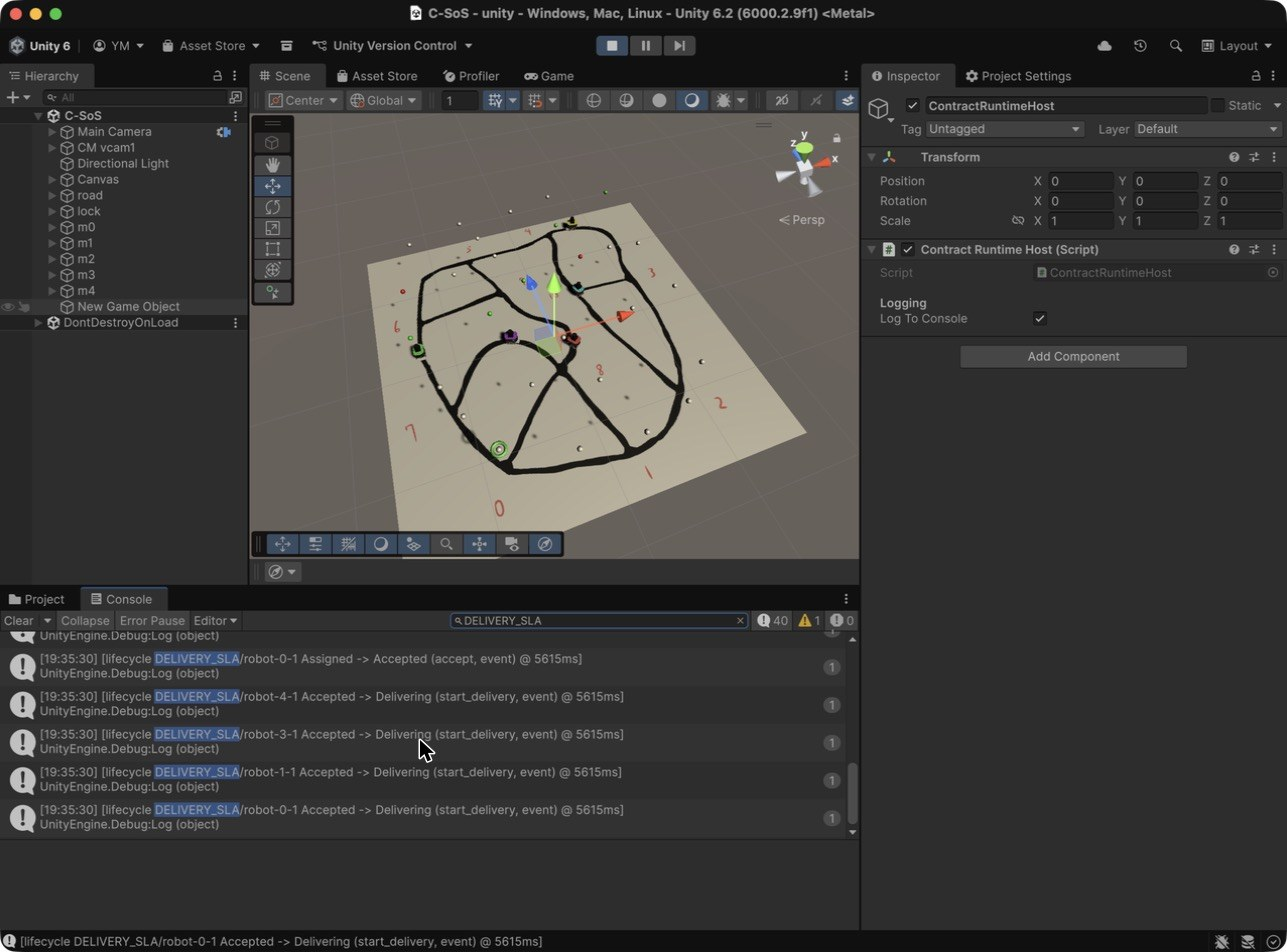
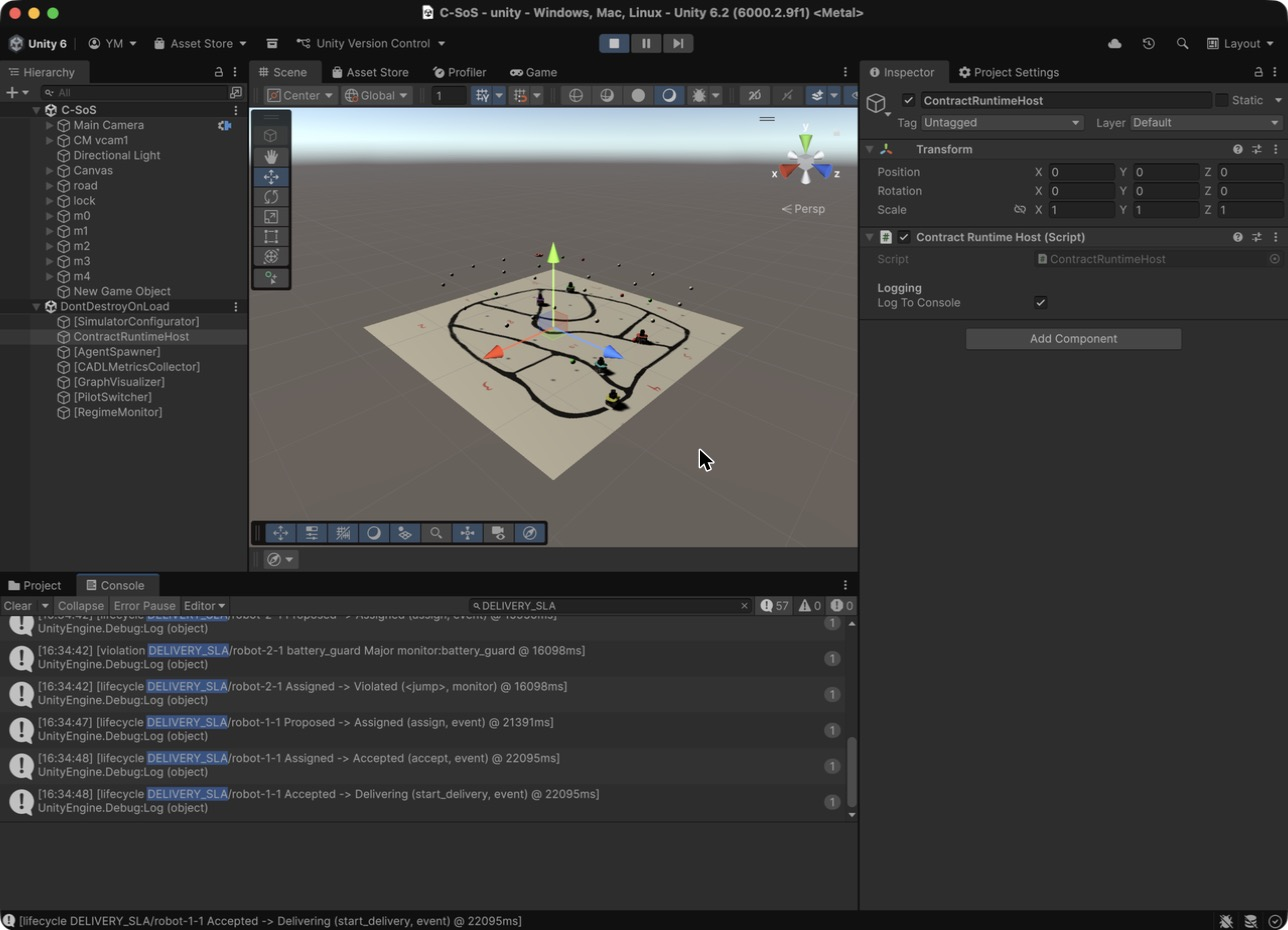
Course A Step 6: each robot's contract moves on its own events (#40)
Running Course A against the latest cadl, simulator and Unity 6000.2.9f1
showed that one robot's events advanced every robot's contract (all five
Assigned at the same millisecond). The fix is in ertlnagoya/cadl#20
(PostEvent with an optional instanceId) and the simulator bridge
(ertlnagoya/cadl-raspimouse-simulator#15); this updates the textbook to
what the fixed run shows.

- Step 5 and the wrap-up: the generated C# tree is 783 lines (was 770)
- Step 6: the Console example is taken from the fixed run; the robots
  reach Assigned one at a time, about every 5 seconds; Check 6 says so
  and adds that a robot's Completed does not move the others
- Step 6 screenshot retaken with the fixed build (distinct times per
  robot; the old one showed four robots at the same millisecond)
- Code walkthrough: 783 lines; ContractRuntime.cs ~100 lines and
  delivery to one instance or to all; the Console example

diff --git a/docs/handson/main-textbook.md b/docs/handson/main-textbook.md
@@ -779,7 +779,7 @@ $ ./scripts/sos_dsl_handson_e2e.sh examples/sos_dsl_robot_delivery.cadl \
   output    : output/sos_dsl_handson/unity-csharp
   runtime   : 5 files
   generated : 3 files
-  total lines : 770
+  total lines : 783
 
 == Step 4/4 — drop into ../cadl-raspimouse-simulator/unity/Assets/Scripts/SoSDsl/ ==
   installed: .../Runtime, .../Generated
@@ -889,7 +889,7 @@ These nine tests catch the structural bugs that would prevent Unity from compili
 You now have:
 
 - A 245-line Sim-IR JSON (for the bundled example).
-- A 770-line Unity-ready C# tree, dropped into the Unity project.
+- A 783-line Unity-ready C# tree, dropped into the Unity project.
 - A Python proof-of-concept showing what the C# trace **must** look like once it runs.
 
 ----
@@ -1018,7 +1018,7 @@ In the Console, lines like the following should appear continuously. You can fil
 
 ![Unity in Play mode: robots on the road network in the Scene view, and the Console filtered on DELIVERY_SLA showing lifecycle events](/img/handson/unity-play-console.jpg)
 
-The screenshot was taken a few seconds into Play, with `DELIVERY_SLA` typed in the Console search box and the Scene tab selected. In this capture the Hierarchy still lists the object of step 6.3 as "New Game Object" although the Inspector shows its name, `ContractRuntimeHost`; on your screen both show `ContractRuntimeHost`.
+The screenshot was taken about 22 seconds into Play, with `DELIVERY_SLA` typed in the Console search box and the Scene tab selected: robot-2-1 (battery 15) has just been moved to `Violated` by `battery_guard`, and robot-1-1 has been assigned five seconds later. During Play the host is listed as `ContractRuntimeHost` under `DontDestroyOnLoad`; in this capture the scene part of the Hierarchy still shows the object of step 6.3 as "New Game Object", although the Inspector shows its name.
 
 A closer look at the road during the same run, with the five robots on their way:
 
@@ -1029,17 +1029,17 @@ The Game view during Play: the camera follows robot `m1`, and the small picture 
 ![The Game view during Play: the camera follows a robot on the road, with the robot's own camera view in the lower-right corner](/img/handson/unity-game-view.jpg)
 
 ```
-[lifecycle DELIVERY_SLA/robot-0-1 Proposed -> Assigned     (assign,        event)   @ 1234ms]
-[lifecycle DELIVERY_SLA/robot-0-1 Assigned -> Accepted     (accept,        event)   @ 1934ms]
-[lifecycle DELIVERY_SLA/robot-0-1 Accepted -> Delivering   (start_delivery,event)   @ 1980ms]
-[lifecycle DELIVERY_SLA/robot-0-1 Delivering-> Completed   (complete,      event)   @ 8341ms]
+[lifecycle DELIVERY_SLA/robot-2-1 Proposed -> Assigned (assign, event) @ 16112ms]
+[violation DELIVERY_SLA/robot-2-1 battery_guard Major monitor:battery_guard @ 16112ms]
+[lifecycle DELIVERY_SLA/robot-2-1 Assigned -> Violated (<jump>, monitor) @ 16112ms]
 
-[lifecycle DELIVERY_SLA/robot-2-1 Proposed -> Assigned     (assign,        event)   @ 2050ms]
-[violation DELIVERY_SLA/robot-2-1 battery_guard Major monitor:battery_guard         @ 2150ms]
-[lifecycle DELIVERY_SLA/robot-2-1 Assigned -> Violated     (<jump>,        monitor) @ 2150ms]
+[lifecycle DELIVERY_SLA/robot-1-1 Proposed -> Assigned (assign, event) @ 21675ms]
+[lifecycle DELIVERY_SLA/robot-1-1 Assigned -> Accepted (accept, event) @ 22479ms]
+[lifecycle DELIVERY_SLA/robot-1-1 Accepted -> Delivering (start_delivery, event) @ 22479ms]
+[lifecycle DELIVERY_SLA/robot-1-1 Delivering -> Completed (complete, event) @ 46361ms]
 ```
 
-Note the 700 ms between `assign` and `accept` for `robot-0-1`: that is the `Assigned Dwell Ms` set in 6.4.
+Each robot's contract moves only on that robot's own events. The arbitrator hands out one delivery about every 5 seconds, so the robots reach `Assigned` one after another (in this run at about 5, 11, 16, 22 and 27 seconds). Note the 700 to 800 ms between `assign` and `accept` for `robot-1-1`: that is the `Assigned Dwell Ms` set in 6.4. `robot-2-1`, with battery 15, is caught by `battery_guard` in the same frame as its `assign`.
 
 ### Check 6
 
@@ -1050,7 +1050,8 @@ Confirm all of these:
 | There are `[lifecycle ... robot-{id}-1 ...]` events for **all five robots** | Yes |
 | The robot with battery 15 has a `monitor:battery_guard` violation | Yes |
 | Every robot's first transition is `Proposed -> Assigned` | Yes |
-| Each robot gets from `Proposed` to `Assigned` within roughly 10 seconds (not instantly — there is a claim delay) | Yes |
+| The robots reach `Assigned` one at a time, about every 5 seconds (the arbitrator hands out one delivery at a time), so the last one takes about 25–30 seconds | Yes |
+| A robot's contract reaches `Completed` when **that** robot finishes its delivery; the other robots' contracts do not move with it | Yes |
 | The **same kinds of events** as Step 5's Python run (lifecycle transitions, violations) appear with the same meaning | Yes |
 
 ### Common mistakes
@@ -1078,7 +1079,7 @@ You have just witnessed the **end-to-end story of an SoS contract**: written in 
 | Spec | a CADL file of about 100 lines (Steps 2 & 3) | nothing — the spec was the only source |
 | IR | nothing | generated JSON (245 lines for the bundled example) |
 | Visualisation | nothing | the Lifecycle View page |
-| Implementation | nothing | generated Unity C# (770 lines for the bundled example) |
+| Implementation | nothing | generated Unity C# (783 lines for the bundled example) |
 | Runtime semantics | nothing | a working state machine + monitors + deadline timers |
 
 Why does this matter for SoS? **The same specification powers everything**: the docs, the diagram, the simulation, the code. When the specification changes — say, you tighten the deadline from 5s to 3s — you edit one file and re-run the generation commands (`cadl sim-ir`, `cadl codegen`, or the e2e script); the IR, the diagram and the generated C# then all follow from that single source, with no second copy of the rule to edit by hand. Keeping one source for all of them helps keep a large SoS design maintainable.

diff --git a/i18n/ja/docusaurus-plugin-content-docs/current/handson/code-walkthrough.md b/i18n/ja/docusaurus-plugin-content-docs/current/handson/code-walkthrough.md
@@ -58,13 +58,13 @@ flowchart LR
 
 **(1) 仕様 → IR**。`.cadl` の `deadline: 5s` は、`cadl_repo/src/cadl/parser.py` が構文解析し、`sim/lower.py` が IR に落とすと `"deadline_ms": 5000` という JSON になります（IR 全体で 245 行）。IR は「人間向けの書き方」を捨てて「機械が実行しやすい形」だけを残した中間表現です。
 
-**(2) IR → C#**。`codegen/unity_csharp/contract_emitter.py` が IR を読んで、契約 1 つにつき 3 ファイルを生成します：状態の列挙（`DeliverySlaState.cs`）、状態機械本体（`DeliverySlaContract.cs`）、監視ルール（`DeliverySlaMonitors.cs`）。これに共有ランタイム 5 ファイル（後述）を足した計 770 行が `unity/Assets/Scripts/SoSDsl/` に配置されます。
+**(2) IR → C#**。`codegen/unity_csharp/contract_emitter.py` が IR を読んで、契約 1 つにつき 3 ファイルを生成します：状態の列挙（`DeliverySlaState.cs`）、状態機械本体（`DeliverySlaContract.cs`）、監視ルール（`DeliverySlaMonitors.cs`）。これに共有ランタイム 5 ファイル（後述）を足した計 783 行が `unity/Assets/Scripts/SoSDsl/` に配置されます。
 
-**(3) C# が Unity で動く**。シーン上の `ContractRuntimeHost` が毎フレーム `Runtime.Tick(now)` を呼び、期限切れと監視ルールを評価します。各ロボットに付けた `PilotContractBridge` が、ロボットの状態変化（配送を落札した・配達を終えた）を**契約イベント**（`route_assignment` や `Delivered`）に翻訳して流し込みます。違反や状態遷移は Console に 1 行ずつ出ます：
+**(3) C# が Unity で動く**。シーン上の `ContractRuntimeHost` が毎フレーム `Runtime.Tick(now)` を呼び、期限切れと監視ルールを評価します。各ロボットに付けた `PilotContractBridge` が、ロボットの状態変化（配送を落札した・配達を終えた）を**契約イベント**（`route_assignment` や `Delivered`）に翻訳し、そのロボット自身の契約インスタンスに流し込みます。違反や状態遷移は Console に 1 行ずつ出ます：
 
 ```
-[lifecycle DELIVERY_SLA/robot-2-1 Proposed -> Assigned (assign, event) @ 2050ms]
-[violation DELIVERY_SLA/robot-2-1 battery_guard Major monitor:battery_guard @ 2150ms]
+[lifecycle DELIVERY_SLA/robot-2-1 Proposed -> Assigned (assign, event) @ 16112ms]
+[violation DELIVERY_SLA/robot-2-1 battery_guard Major monitor:battery_guard @ 16112ms]
 ```
 
 ## 4. 主要ファイル解説
@@ -73,7 +73,7 @@ flowchart LR
 
 | ファイル | 中身 | 行数の目安 |
 | --- | --- | --- |
-| `Runtime/ContractRuntime.cs` | インスタンス登録・イベント配送・`Tick` ループ。心臓部 | 約 90 |
+| `Runtime/ContractRuntime.cs` | インスタンス登録・イベント配送（1 インスタンス宛て、または全インスタンス）・`Tick` ループ。心臓部 | 約 100 |
 | `Runtime/PredicateEvaluator.cs` | `"battery < 20 AND state == Assigned"` のような述語文字列の評価器 | 約 250 |
 | `Runtime/ContractEvent.cs` | lifecycle / violation イベントの共通構造体。Console の行はここの `ToString()` | 約 40 |
 | `Runtime/EventBus.cs` / `Severity.cs` | 軽量 pub-sub と深刻度 enum | 小 |

diff --git a/docs/handson/code-walkthrough.md b/docs/handson/code-walkthrough.md
@@ -58,13 +58,13 @@ Using the textbook example `sos_dsl_robot_delivery.cadl` (153 lines), let's foll
 
 **(1) Spec → IR.** The `deadline: 5s` in your `.cadl` file is parsed by `cadl_repo/src/cadl/parser.py`, and once `sim/lower.py` lowers it into the IR it becomes the JSON `"deadline_ms": 5000` (the whole IR is 245 lines). The IR is an intermediate representation that discards the "human-friendly notation" and keeps only the "form that machines can easily execute".
 
-**(2) IR → C#.** `codegen/unity_csharp/contract_emitter.py` reads the IR and generates three files per contract: the state enum (`DeliverySlaState.cs`), the state machine itself (`DeliverySlaContract.cs`), and the monitoring rules (`DeliverySlaMonitors.cs`). Together with 5 shared runtime files (described below), a total of 770 lines is placed under `unity/Assets/Scripts/SoSDsl/`.
+**(2) IR → C#.** `codegen/unity_csharp/contract_emitter.py` reads the IR and generates three files per contract: the state enum (`DeliverySlaState.cs`), the state machine itself (`DeliverySlaContract.cs`), and the monitoring rules (`DeliverySlaMonitors.cs`). Together with 5 shared runtime files (described below), a total of 783 lines is placed under `unity/Assets/Scripts/SoSDsl/`.
 
-**(3) The C# runs in Unity.** The `ContractRuntimeHost` in the scene calls `Runtime.Tick(now)` every frame, evaluating deadline expirations and monitoring rules. A `PilotContractBridge` attached to each robot translates the robot's state changes (won a delivery bid, finished a delivery) into **contract events** (`route_assignment`, `Delivered`) and feeds them in. Violations and state transitions appear line by line in the Console:
+**(3) The C# runs in Unity.** The `ContractRuntimeHost` in the scene calls `Runtime.Tick(now)` every frame, evaluating deadline expirations and monitoring rules. A `PilotContractBridge` attached to each robot translates the robot's state changes (won a delivery bid, finished a delivery) into **contract events** (`route_assignment`, `Delivered`) and feeds them to that robot's own contract instance. Violations and state transitions appear line by line in the Console:
 
 ```
-[lifecycle DELIVERY_SLA/robot-2-1 Proposed -> Assigned (assign, event) @ 2050ms]
-[violation DELIVERY_SLA/robot-2-1 battery_guard Major monitor:battery_guard @ 2150ms]
+[lifecycle DELIVERY_SLA/robot-2-1 Proposed -> Assigned (assign, event) @ 16112ms]
+[violation DELIVERY_SLA/robot-2-1 battery_guard Major monitor:battery_guard @ 16112ms]
 ```
 
 ## 4. Key files explained
@@ -73,7 +73,7 @@ Using the textbook example `sos_dsl_robot_delivery.cadl` (153 lines), let's foll
 
 | File | What it contains | Approx. lines |
 | --- | --- | --- |
-| `Runtime/ContractRuntime.cs` | Instance registration, event delivery, the `Tick` loop. The heart of the system | ~90 |
+| `Runtime/ContractRuntime.cs` | Instance registration, event delivery (to one instance or to all), the `Tick` loop. The heart of the system | ~100 |
 | `Runtime/PredicateEvaluator.cs` | Evaluator for predicate strings like `"battery < 20 AND state == Assigned"` | ~250 |
 | `Runtime/ContractEvent.cs` | Shared struct for lifecycle / violation events. The Console lines come from its `ToString()` | ~40 |
 | `Runtime/EventBus.cs` / `Severity.cs` | Lightweight pub-sub and the severity enum | Small |
